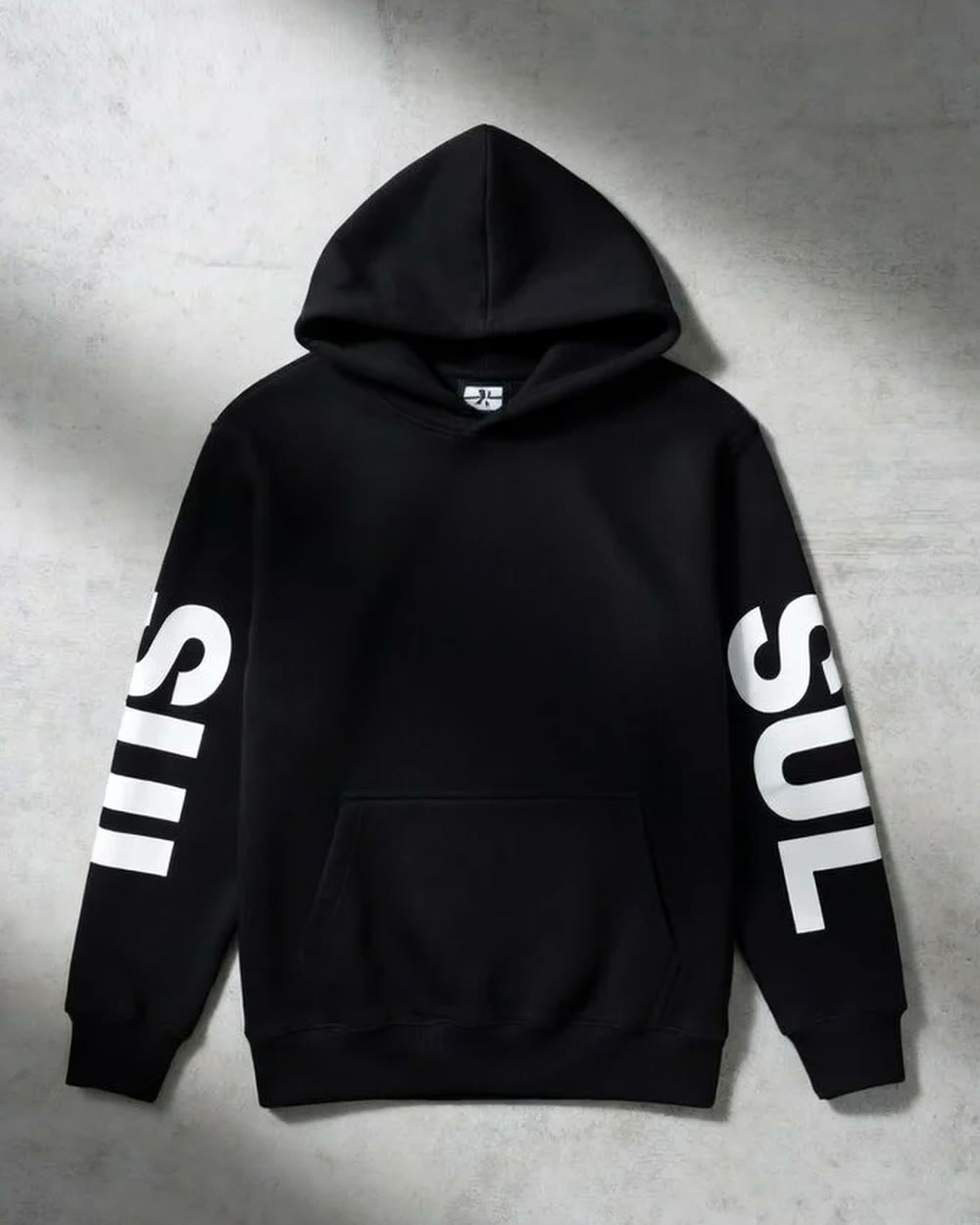
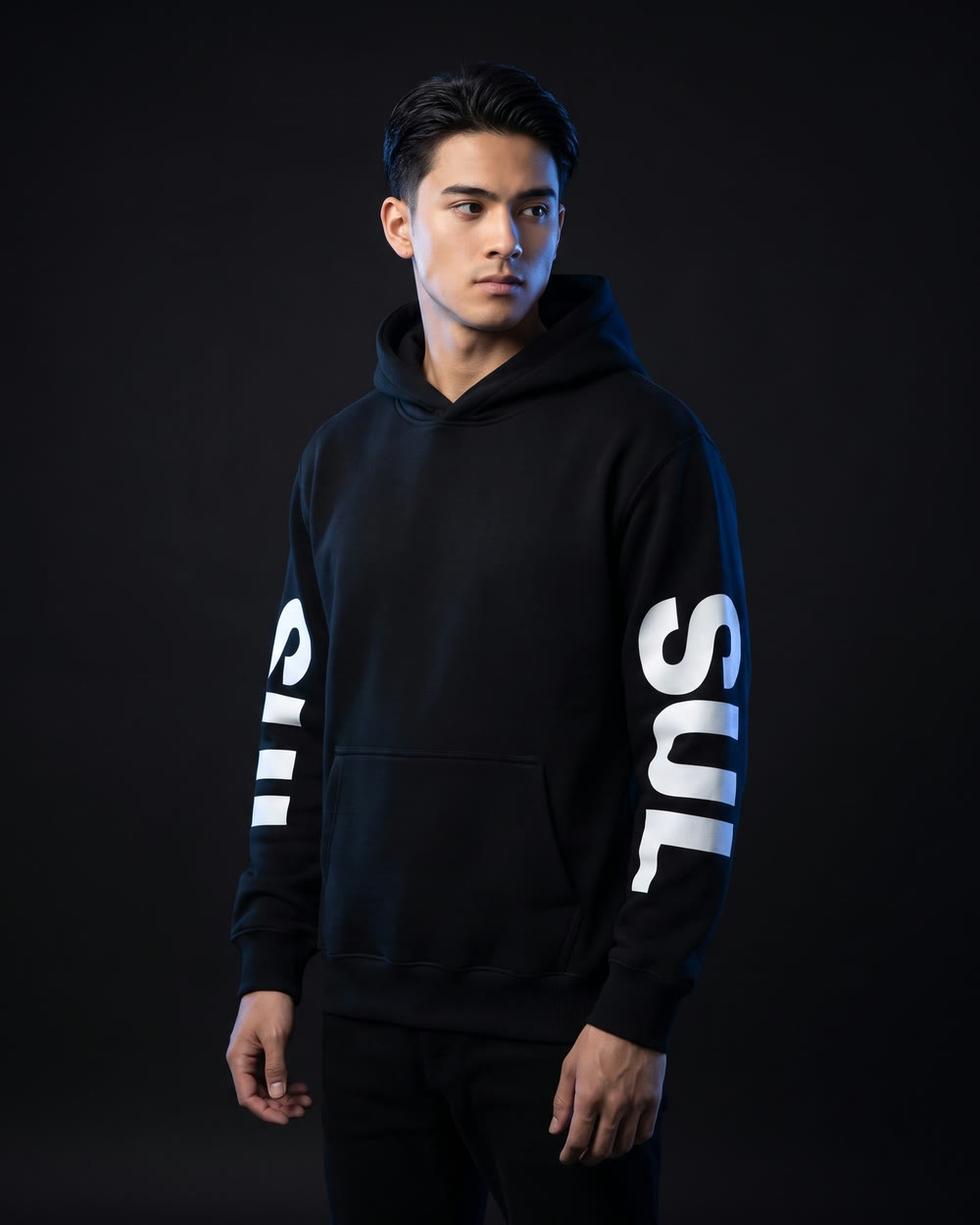
Give the printed sets and older products Higgsfield images
The printed sets now lead with an AI model shot, with the factory table
photos of each shirt and shorts cleaned up on a charcoal surface. The
section says these are AI previews made from the real samples. The
hoodie, sweater, hat, and Full Kit share model shots in link previews.

diff --git a/index.html b/index.html
@@ -59,7 +59,7 @@
   <p class="card-image-note">Hoodie + joggers + tee. Hoodie shown.</p>
 </article></div><p class="shop-empty" hidden>No pieces in this selection. Explore all pieces.</p><div class="collection-bottom"><a class="button" href="collections.html">Shop all pieces<svg viewBox="0 0 24 24" aria-hidden="true"><path d="M4 12h15M13 6l6 6-6 6"/></svg></a></div></section>
 <section id="studio" class="studio-section"><div class="studio-heading shell"><h2>The next<br>wake-up call.</h2><div><p>Chrome. Crown. A new kind of SUL.</p><p class="studio-disclaimer">A look inside the design studio. These designs are previews.</p></div></div><div class="studio-stage"><div class="studio-main"><img src="assets/images/chrome-study.webp" alt="SUL design study showing chrome logos, blue detailing, a bomber, sweater, jersey, and cargo trousers" width="832" height="1248" id="studio-image" loading="lazy"></div><div class="studio-selector"><button aria-pressed="true" data-study="chrome-study" data-study-alt="SUL design study showing chrome logos, blue detailing, a bomber, sweater, jersey, and cargo trousers"><span>Chrome & blue</span><svg viewBox="0 0 24 24" aria-hidden="true"><path d="M4 12h15M13 6l6 6-6 6"/></svg></button><button aria-pressed="false" data-study="essentials-study" data-study-alt="SUL essentials design study with a washed black zip hoodie, cream tee, black varsity jacket, and wide leg trousers"><span>After-hours essentials</span><svg viewBox="0 0 24 24" aria-hidden="true"><path d="M4 12h15M13 6l6 6-6 6"/></svg></button><button aria-pressed="false" data-study="technical-study" data-study-alt="SUL technical clothing design study with black outfits, logo tee, bag, and cap"><span>Technical collection</span><svg viewBox="0 0 24 24" aria-hidden="true"><path d="M4 12h15M13 6l6 6-6 6"/></svg></button></div></div></section>
-<section id="print-edit" class="print-edit shell"><div class="section-heading"><h2>Make some<br>noise.</h2><p>From all-over clocks to bold SUL lettering. Studio previews of the printed sets. Availability and pricing to be announced.</p></div><div class="print-grid"><article class="print-card"><button class="print-image" data-enlarge="snooze-shirt" data-alt="White short sleeve SUL button-up shirt with repeating red and black lettering" aria-label="Enlarge Snooze U Lose shirt"><img src="assets/images/snooze-shirt.webp" alt="White short sleeve SUL button-up shirt with repeating red and black lettering" width="832" height="1248" loading="lazy"><svg viewBox="0 0 24 24" aria-hidden="true"><path d="M4 9V4h5M15 4h5v5M20 15v5h-5M9 20H4v-5"/></svg></button><div class="print-info"><h3>Snooze U Lose</h3><span>White / Red / Black</span></div><div class="print-controls" role="group" aria-label="Snooze U Lose image"><button data-print-image="snooze-shirt" data-print-alt="White short sleeve SUL button-up shirt with repeating red and black lettering" aria-pressed="true">Shirt</button><button data-print-image="snooze-shorts" data-print-alt="Matching Snooze U Lose printed drawstring shorts" aria-pressed="false">Shorts</button></div></article><article class="print-card"><button class="print-image" data-enlarge="time-shirt" data-alt="White short sleeve shirt with clock artwork and Stop Wasting lettering" aria-label="Enlarge Time is money shirt"><img src="assets/images/time-shirt.webp" alt="White short sleeve shirt with clock artwork and Stop Wasting lettering" width="832" height="1248" loading="lazy"><svg viewBox="0 0 24 24" aria-hidden="true"><path d="M4 9V4h5M15 4h5v5M20 15v5h-5M9 20H4v-5"/></svg></button><div class="print-info"><h3>Time is money</h3><span>White / Black / Gold</span></div><div class="print-controls" role="group" aria-label="Time is money image"><button data-print-image="time-shirt" data-print-alt="White short sleeve shirt with clock artwork and Stop Wasting lettering" aria-pressed="true">Shirt</button><button data-print-image="time-shorts" data-print-alt="Matching Time is money printed drawstring shorts" aria-pressed="false">Shorts</button></div></article><article class="print-card"><button class="print-image" data-enlarge="abstract-shirt" data-alt="SUL short sleeve shirt with blue and grey abstract line artwork" aria-label="Enlarge Outside the lines shirt"><img src="assets/images/abstract-shirt.webp" alt="SUL short sleeve shirt with blue and grey abstract line artwork" width="832" height="1248" loading="lazy"><svg viewBox="0 0 24 24" aria-hidden="true"><path d="M4 9V4h5M15 4h5v5M20 15v5h-5M9 20H4v-5"/></svg></button><div class="print-info"><h3>Outside the lines</h3><span>Blue / Grey / White</span></div><div class="print-controls" role="group" aria-label="Outside the lines image"><button data-print-image="abstract-shirt" data-print-alt="SUL short sleeve shirt with blue and grey abstract line artwork" aria-pressed="true">Shirt</button><button data-print-image="abstract-shorts" data-print-alt="Matching Outside the lines printed drawstring shorts" aria-pressed="false">Shorts</button></div></article><article class="print-card"><button class="print-image" data-enlarge="alarm-shirt" data-alt="Charcoal short sleeve shirt with repeating lime digital alarm clock artwork" aria-label="Enlarge Wake-up call shirt"><img src="assets/images/alarm-shirt.webp" alt="Charcoal short sleeve shirt with repeating lime digital alarm clock artwork" width="832" height="1248" loading="lazy"><svg viewBox="0 0 24 24" aria-hidden="true"><path d="M4 9V4h5M15 4h5v5M20 15v5h-5M9 20H4v-5"/></svg></button><div class="print-info"><h3>Wake-up call</h3><span>Charcoal / Lime</span></div><div class="print-controls" role="group" aria-label="Wake-up call image"><button data-print-image="alarm-shirt" data-print-alt="Charcoal short sleeve shirt with repeating lime digital alarm clock artwork" aria-pressed="true">Shirt</button><button data-print-image="alarm-shorts" data-print-alt="Matching Wake-up call printed drawstring shorts" aria-pressed="false">Shorts</button></div></article><article class="print-card"><button class="print-image" data-enlarge="money-shirt" data-alt="Black SUL short sleeve shirt with banknote graphics and lettering" aria-label="Enlarge Make your move shirt"><img src="assets/images/money-shirt.webp" alt="Black SUL short sleeve shirt with banknote graphics and lettering" width="832" height="1248" loading="lazy"><svg viewBox="0 0 24 24" aria-hidden="true"><path d="M4 9V4h5M15 4h5v5M20 15v5h-5M9 20H4v-5"/></svg></button><div class="print-info"><h3>Make your move</h3><span>Black / Multicolor</span></div><div class="print-controls" role="group" aria-label="Make your move image"><button data-print-image="money-shirt" data-print-alt="Black SUL short sleeve shirt with banknote graphics and lettering" aria-pressed="true">Shirt</button><button data-print-image="money-shorts" data-print-alt="Matching Make your move printed drawstring shorts" aria-pressed="false">Shorts</button></div></article></div></section>
+<section id="print-edit" class="print-edit shell"><div class="section-heading"><h2>Make some<br>noise.</h2><p>From all-over clocks to bold SUL lettering. Studio previews of the printed sets, made with AI from photos of the real samples. Availability and pricing to be announced.</p></div><div class="print-grid"><article class="print-card"><button class="print-image" data-enlarge="snooze-look" data-alt="AI preview of a model wearing the Snooze U Lose shirt and shorts. White short sleeve SUL button-up shirt with repeating red and black lettering" aria-label="Enlarge Snooze U Lose look"><img src="assets/images/snooze-look.webp" alt="AI preview of a model wearing the Snooze U Lose shirt and shorts. White short sleeve SUL button-up shirt with repeating red and black lettering" width="832" height="1248" loading="lazy"><svg viewBox="0 0 24 24" aria-hidden="true"><path d="M4 9V4h5M15 4h5v5M20 15v5h-5M9 20H4v-5"/></svg></button><div class="print-info"><h3>Snooze U Lose</h3><span>White / Red / Black</span></div><div class="print-controls" role="group" aria-label="Snooze U Lose image"><button data-print-image="snooze-look" data-print-alt="AI preview of a model wearing the Snooze U Lose shirt and shorts. White short sleeve SUL button-up shirt with repeating red and black lettering" aria-pressed="true">On model</button><button data-print-image="snooze-shirt-studio" data-print-alt="White short sleeve SUL button-up shirt with repeating red and black lettering" aria-pressed="false">Shirt</button><button data-print-image="snooze-shorts-studio" data-print-alt="Matching Snooze U Lose printed drawstring shorts" aria-pressed="false">Shorts</button></div></article><article class="print-card"><button class="print-image" data-enlarge="time-look" data-alt="AI preview of a model wearing the Time is money shirt and shorts. White short sleeve shirt with clock artwork and Stop Wasting lettering" aria-label="Enlarge Time is money look"><img src="assets/images/time-look.webp" alt="AI preview of a model wearing the Time is money shirt and shorts. White short sleeve shirt with clock artwork and Stop Wasting lettering" width="832" height="1248" loading="lazy"><svg viewBox="0 0 24 24" aria-hidden="true"><path d="M4 9V4h5M15 4h5v5M20 15v5h-5M9 20H4v-5"/></svg></button><div class="print-info"><h3>Time is money</h3><span>White / Black / Gold</span></div><div class="print-controls" role="group" aria-label="Time is money image"><button data-print-image="time-look" data-print-alt="AI preview of a model wearing the Time is money shirt and shorts. White short sleeve shirt with clock artwork and Stop Wasting lettering" aria-pressed="true">On model</button><button data-print-image="time-shirt-studio" data-print-alt="White short sleeve shirt with clock artwork and Stop Wasting lettering" aria-pressed="false">Shirt</button><button data-print-image="time-shorts-studio" data-print-alt="Matching Time is money printed drawstring shorts" aria-pressed="false">Shorts</button></div></article><article class="print-card"><button class="print-image" data-enlarge="abstract-look" data-alt="AI preview of a model wearing the Outside the lines shirt and shorts. SUL short sleeve shirt with blue and grey abstract line artwork" aria-label="Enlarge Outside the lines look"><img src="assets/images/abstract-look.webp" alt="AI preview of a model wearing the Outside the lines shirt and shorts. SUL short sleeve shirt with blue and grey abstract line artwork" width="832" height="1248" loading="lazy"><svg viewBox="0 0 24 24" aria-hidden="true"><path d="M4 9V4h5M15 4h5v5M20 15v5h-5M9 20H4v-5"/></svg></button><div class="print-info"><h3>Outside the lines</h3><span>Blue / Grey / White</span></div><div class="print-controls" role="group" aria-label="Outside the lines image"><button data-print-image="abstract-look" data-print-alt="AI preview of a model wearing the Outside the lines shirt and shorts. SUL short sleeve shirt with blue and grey abstract line artwork" aria-pressed="true">On model</button><button data-print-image="abstract-shirt-studio" data-print-alt="SUL short sleeve shirt with blue and grey abstract line artwork" aria-pressed="false">Shirt</button><button data-print-image="abstract-shorts-studio" data-print-alt="Matching Outside the lines printed drawstring shorts" aria-pressed="false">Shorts</button></div></article><article class="print-card"><button class="print-image" data-enlarge="alarm-look" data-alt="AI preview of a model wearing the Wake-up call shirt and shorts. Charcoal short sleeve shirt with repeating lime digital alarm clock artwork" aria-label="Enlarge Wake-up call look"><img src="assets/images/alarm-look.webp" alt="AI preview of a model wearing the Wake-up call shirt and shorts. Charcoal short sleeve shirt with repeating lime digital alarm clock artwork" width="832" height="1248" loading="lazy"><svg viewBox="0 0 24 24" aria-hidden="true"><path d="M4 9V4h5M15 4h5v5M20 15v5h-5M9 20H4v-5"/></svg></button><div class="print-info"><h3>Wake-up call</h3><span>Charcoal / Lime</span></div><div class="print-controls" role="group" aria-label="Wake-up call image"><button data-print-image="alarm-look" data-print-alt="AI preview of a model wearing the Wake-up call shirt and shorts. Charcoal short sleeve shirt with repeating lime digital alarm clock artwork" aria-pressed="true">On model</button><button data-print-image="alarm-shirt-studio" data-print-alt="Charcoal short sleeve shirt with repeating lime digital alarm clock artwork" aria-pressed="false">Shirt</button><button data-print-image="alarm-shorts-studio" data-print-alt="Matching Wake-up call printed drawstring shorts" aria-pressed="false">Shorts</button></div></article><article class="print-card"><button class="print-image" data-enlarge="money-look" data-alt="AI preview of a model wearing the Make your move shirt and shorts. Black SUL short sleeve shirt with banknote graphics and lettering" aria-label="Enlarge Make your move look"><img src="assets/images/money-look.webp" alt="AI preview of a model wearing the Make your move shirt and shorts. Black SUL short sleeve shirt with banknote graphics and lettering" width="832" height="1248" loading="lazy"><svg viewBox="0 0 24 24" aria-hidden="true"><path d="M4 9V4h5M15 4h5v5M20 15v5h-5M9 20H4v-5"/></svg></button><div class="print-info"><h3>Make your move</h3><span>Black / Multicolor</span></div><div class="print-controls" role="group" aria-label="Make your move image"><button data-print-image="money-look" data-print-alt="AI preview of a model wearing the Make your move shirt and shorts. Black SUL short sleeve shirt with banknote graphics and lettering" aria-pressed="true">On model</button><button data-print-image="money-shirt-studio" data-print-alt="Black SUL short sleeve shirt with banknote graphics and lettering" aria-pressed="false">Shirt</button><button data-print-image="money-shorts-studio" data-print-alt="Matching Make your move printed drawstring shorts" aria-pressed="false">Shorts</button></div></article></div></section>
 <section class="campaign" id="lookbook"><div class="campaign-image"><img src="assets/images/city.webp" alt="SUL white and maroon sweatsuit worn on a city street" width="832" height="1248" id="campaign-image" loading="lazy"><span class="campaign-caption" id="campaign-caption">SUL in the city.</span></div><div class="campaign-copy"><div class="campaign-tabs" role="group" aria-label="Lookbook setting"><button data-campaign="city" aria-pressed="true">In the city</button><button data-campaign="outdoor" aria-pressed="false">Off the clock</button></div><h2>Different<br>hours.<br>Same energy.</h2><p>Out in the city. Off the clock. Wherever the day takes you, bring your own point of view.</p><a class="campaign-link" href="collections.html">Find your everyday uniform<svg viewBox="0 0 24 24" aria-hidden="true"><path d="M4 12h15M13 6l6 6-6 6"/></svg></a></div></section>
 <section class="manifesto shell" id="story"><h2>More than<br>a name.<br>A mindset.</h2><div class="manifesto-copy"><p><strong>Snooze U Lose.</strong> A reminder to go after what matters. To show up as yourself. To make your next move count.</p><p>From the lion to the crown, that’s the thread running through SUL. The rest is how you wear it.</p><a class="text-link" href="https://www.instagram.com/snoozeulose/" target="_blank" rel="noopener noreferrer">Follow SUL on Instagram<svg viewBox="0 0 24 24" aria-hidden="true"><path d="M5 19 19 5M5 5h14v14"/></svg></a></div></section>
 </main><footer class="site-footer shell"><div class="footer-top"><h2>Don’t sleep<br>on what’s next.</h2><nav class="footer-nav" aria-label="Footer navigation"><a href="index.html#drop">Women’s drop</a><a href="collections.html">Shop the collection</a><a href="index.html#studio">The studio</a><a href="https://www.instagram.com/snoozeulose/" target="_blank" rel="noopener noreferrer">Instagram<svg viewBox="0 0 24 24" aria-hidden="true"><path d="M5 19 19 5M5 5h14v14"/></svg></a><a href="https://www.tiktok.com/@snoozeulose" target="_blank" rel="noopener noreferrer">TikTok<svg viewBox="0 0 24 24" aria-hidden="true"><path d="M5 19 19 5M5 5h14v14"/></svg></a></nav></div><div class="footer-wordmark"><div class="footer-logo" role="img" aria-label="SUL"></div><p class="footer-credo">Snooze.<br>You lose.</p></div><div class="footer-bottom"><p>© 2026 SUL — Snooze U Lose.</p><p>Questions or orders: <a href="mailto:sulcollective@gmail.com">sulcollective@gmail.com</a></p></div></footer><dialog id="bag-dialog" class="bag-dialog" aria-labelledby="bag-title"><div class="dialog-head"><h2 id="bag-title">Your bag <span id="bag-heading-count">(0)</span></h2><button class="dialog-close" data-close aria-label="Close bag"><svg viewBox="0 0 24 24" aria-hidden="true"><path d="m6 6 12 12M18 6 6 18"/></svg></button></div><div class="bag-items" id="bag-items"></div><div class="bag-foot"><div class="bag-subtotal"><span>Subtotal</span><strong id="bag-total">$0</strong></div><button class="button blue" id="preview-checkout" disabled>Checkout<svg viewBox="0 0 24 24" aria-hidden="true"><path d="M4 12h15M13 6l6 6-6 6"/></svg></button><div class="preview-links" id="preview-links" hidden></div><p id="bag-note">Your bag is saved on this device.</p></div></dialog>

diff --git a/full-kit.html b/full-kit.html
@@ -1,5 +1,5 @@
 <!doctype html>
-<html lang="en"><head><meta charset="UTF-8"><meta name="viewport" content="width=device-width, initial-scale=1"><title>The Full Kit | SUL — Snooze U Lose</title><meta name="description" content="One look, three pieces. The Blackout Hoodie, matching joggers, and essential SUL tee together in black. Your everyday rotation, sorted."><meta name="theme-color" content="#05070d"><meta name="color-scheme" content="dark"><link rel="canonical" href="https://snoozeulose.com/full-kit.html"><meta property="og:site_name" content="Snooze U Lose"><meta property="og:locale" content="en_US"><meta property="og:type" content="product"><meta property="og:url" content="https://snoozeulose.com/full-kit.html"><meta property="og:title" content="The Full Kit · $160"><meta property="og:description" content="One look, three pieces. The Blackout Hoodie, matching joggers, and essential SUL tee together in black. Your everyday rotation, sorted."><meta property="og:image" content="https://snoozeulose.com/assets/share/full-kit.jpg"><meta property="og:image:secure_url" content="https://snoozeulose.com/assets/share/full-kit.jpg"><meta property="og:image:type" content="image/jpeg"><meta property="og:image:width" content="1000"><meta property="og:image:height" content="1250"><meta property="og:image:alt" content="Blackout Hoodie styled with a cap on a store mannequin; hoodie is part of the Full Kit"><meta property="product:price:amount" content="160"><meta property="product:price:currency" content="USD"><meta name="twitter:card" content="summary_large_image"><meta name="twitter:title" content="The Full Kit · $160"><meta name="twitter:description" content="One look, three pieces. The Blackout Hoodie, matching joggers, and essential SUL tee together in black. Your everyday rotation, sorted."><meta name="twitter:image" content="https://snoozeulose.com/assets/share/full-kit.jpg"><meta name="twitter:image:alt" content="Blackout Hoodie styled with a cap on a store mannequin; hoodie is part of the Full Kit"><link rel="icon" href="favicon.ico" sizes="48x48"><link rel="icon" href="assets/images/favicon-64.png" sizes="64x64" type="image/png"><link rel="icon" href="assets/images/icon-192.png" sizes="192x192" type="image/png"><link rel="apple-touch-icon" href="apple-touch-icon.png" sizes="180x180"><link rel="manifest" href="site.webmanifest"><meta name="apple-mobile-web-app-title" content="SUL"><link rel="preload" href="assets/fonts/barlow-condensed-800.woff2" as="font" type="font/woff2" crossorigin><link rel="preload" href="assets/fonts/manrope-400.woff2" as="font" type="font/woff2" crossorigin><link rel="stylesheet" href="assets/style.css"><script type="application/ld+json">{"@context":"https://schema.org","@type":"Product","name":"The Full Kit","image":"https://snoozeulose.com/assets/images/hoodie-scene.webp","description":"One look, three pieces. The Blackout Hoodie, matching joggers, and essential SUL tee together in black. Your everyday rotation, sorted.","brand":{"@type":"Brand","name":"SUL — Snooze U Lose"}}</script><script type="module" src="assets/site.js"></script><script type="module" src="assets/motion.js"></script></head><body class=""><a class="skip-link" href="#main">Skip to content</a>
+<html lang="en"><head><meta charset="UTF-8"><meta name="viewport" content="width=device-width, initial-scale=1"><title>The Full Kit | SUL — Snooze U Lose</title><meta name="description" content="One look, three pieces. The Blackout Hoodie, matching joggers, and essential SUL tee together in black. Your everyday rotation, sorted."><meta name="theme-color" content="#05070d"><meta name="color-scheme" content="dark"><link rel="canonical" href="https://snoozeulose.com/full-kit.html"><meta property="og:site_name" content="Snooze U Lose"><meta property="og:locale" content="en_US"><meta property="og:type" content="product"><meta property="og:url" content="https://snoozeulose.com/full-kit.html"><meta property="og:title" content="The Full Kit · $160"><meta property="og:description" content="One look, three pieces. The Blackout Hoodie, matching joggers, and essential SUL tee together in black. Your everyday rotation, sorted."><meta property="og:image" content="https://snoozeulose.com/assets/share/full-kit.jpg"><meta property="og:image:secure_url" content="https://snoozeulose.com/assets/share/full-kit.jpg"><meta property="og:image:type" content="image/jpeg"><meta property="og:image:width" content="1000"><meta property="og:image:height" content="1250"><meta property="og:image:alt" content="Model wearing the Blackout Hoodie with white SUL sleeve lettering and matching black joggers"><meta property="product:price:amount" content="160"><meta property="product:price:currency" content="USD"><meta name="twitter:card" content="summary_large_image"><meta name="twitter:title" content="The Full Kit · $160"><meta name="twitter:description" content="One look, three pieces. The Blackout Hoodie, matching joggers, and essential SUL tee together in black. Your everyday rotation, sorted."><meta name="twitter:image" content="https://snoozeulose.com/assets/share/full-kit.jpg"><meta name="twitter:image:alt" content="Model wearing the Blackout Hoodie with white SUL sleeve lettering and matching black joggers"><link rel="icon" href="favicon.ico" sizes="48x48"><link rel="icon" href="assets/images/favicon-64.png" sizes="64x64" type="image/png"><link rel="icon" href="assets/images/icon-192.png" sizes="192x192" type="image/png"><link rel="apple-touch-icon" href="apple-touch-icon.png" sizes="180x180"><link rel="manifest" href="site.webmanifest"><meta name="apple-mobile-web-app-title" content="SUL"><link rel="preload" href="assets/fonts/barlow-condensed-800.woff2" as="font" type="font/woff2" crossorigin><link rel="preload" href="assets/fonts/manrope-400.woff2" as="font" type="font/woff2" crossorigin><link rel="stylesheet" href="assets/style.css"><script type="application/ld+json">{"@context":"https://schema.org","@type":"Product","name":"The Full Kit","image":"https://snoozeulose.com/assets/images/hoodie-scene.webp","description":"One look, three pieces. The Blackout Hoodie, matching joggers, and essential SUL tee together in black. Your everyday rotation, sorted.","brand":{"@type":"Brand","name":"SUL — Snooze U Lose"}}</script><script type="module" src="assets/site.js"></script><script type="module" src="assets/motion.js"></script></head><body class=""><a class="skip-link" href="#main">Skip to content</a>
 <header class="site-header"><a class="brand" href="index.html" aria-label="SUL home"><span class="logo-mark" aria-hidden="true"></span><span class="brand-name">Snooze<br>U Lose</span></a><nav class="desktop-nav" aria-label="Main navigation"><a href="index.html#drop">Women’s drop</a><a href="collections.html">Shop all</a><a href="index.html#studio">The studio</a><a href="index.html#story">Our world</a></nav><div class="header-actions"><button class="bag-trigger" data-open="bag-dialog" aria-label="Open shopping bag"><svg viewBox="0 0 24 24" aria-hidden="true"><path d="M6 7h12l2 13H4L6 7ZM9 8V6a3 3 0 0 1 6 0v2"/></svg><span>Bag</span><span class="bag-count">(0)</span></button><button class="menu-trigger" data-open="menu-dialog" aria-label="Open navigation">Menu<svg viewBox="0 0 24 24" aria-hidden="true"><path d="M3 8h18M3 16h18"/></svg></button></div></header><main id="main" class="product-main"><nav class="breadcrumb" aria-label="Breadcrumb"><a href="index.html">Home</a><svg viewBox="0 0 24 24" aria-hidden="true"><path d="m9 6 6 6-6 6"/></svg><a href="collections.html">The collection</a><svg viewBox="0 0 24 24" aria-hidden="true"><path d="m9 6 6 6-6 6"/></svg><span aria-current="page">The Full Kit</span></nav><div class="product-layout shell"><section class="product-gallery" aria-label="The Full Kit gallery"><div class="gallery-main" style="view-transition-name:p-full-kit"><img src="assets/images/hoodie-scene.webp" alt="Blackout Hoodie styled with a cap on a store mannequin; hoodie is part of the Full Kit" width="832" height="1248" id="gallery-image" fetchpriority="high"><button class="gallery-enlarge" data-enlarge="hoodie-scene" data-alt="Blackout Hoodie styled with a cap on a store mannequin; hoodie is part of the Full Kit" aria-label="Enlarge product image"><svg viewBox="0 0 24 24" aria-hidden="true"><path d="M4 9V4h5M15 4h5v5M20 15v5h-5M9 20H4v-5"/></svg></button></div><div class="gallery-thumbs" role="group" aria-label="Choose product image"><button data-gallery="hoodie-scene" data-gallery-alt="Blackout Hoodie styled with a cap on a store mannequin; hoodie is part of the Full Kit" aria-pressed="true" aria-label="Studio view"><img src="assets/images/hoodie-scene.webp" alt="Blackout Hoodie styled with a cap on a store mannequin; hoodie is part of the Full Kit" width="832" height="1248" loading="lazy"></button><button data-gallery="hoodie" data-gallery-alt="Blackout Hoodie, included in the SUL Full Kit" aria-pressed="false" aria-label="Alternate view"><img src="assets/images/hoodie.webp" alt="Blackout Hoodie, included in the SUL Full Kit" width="832" height="1248" loading="lazy"></button></div><p class="image-note">Blackout Hoodie shown. The kit also includes joggers and a tee.</p></section><section class="product-summary" data-detail="full-kit" aria-labelledby="product-title"><h1 id="product-title">The Full Kit</h1><div class="product-price-row"><strong>$160</strong><span class="color-name"><span class="color-swatch" aria-hidden="true"></span>Black / White</span></div><p class="product-description">One look, three pieces. The Blackout Hoodie, matching joggers, and essential SUL tee together in black. Your everyday rotation, sorted.</p><fieldset class="size-fieldset"><legend class="sr-only">Select your size</legend><div class="size-head"><span>Select your size</span><button type="button" class="size-guide-link" data-size-guide="full-kit" aria-haspopup="dialog">Size guide</button></div><div class="size-options" role="group" aria-label="Size for The Full Kit"><button type="button" data-size="S" aria-pressed="false">S</button><button type="button" data-size="M" aria-pressed="false">M</button><button type="button" data-size="L" aria-pressed="false">L</button><button type="button" data-size="XL" aria-pressed="false">XL</button><button type="button" data-size="2XL" aria-pressed="false">2XL</button></div><p class="inline-error" role="status" id="size-error"></p></fieldset><button class="button blue product-add" data-add="full-kit"><span>Add to bag — $160</span><svg viewBox="0 0 24 24" aria-hidden="true"><path d="M12 5v14M5 12h14"/></svg></button><p class="product-preview-note">Saved to your bag on this device.<br>Checkout sends your order to SUL by email. SUL confirms payment and shipping.</p><dl class="product-details"><div><dt>Includes</dt><dd>Blackout Hoodie + Joggers + Tee</dd></div><div><dt>Material</dt><dd>Heavyweight cotton fleece</dd></div><div><dt>Fit</dt><dd>Oversized / Relaxed</dd></div><div><dt>Color</dt><dd>Black / White print</dd></div></dl></section></div><section class="related shell"><div class="section-heading"><h2>Keep the energy.</h2><a class="text-link" href="collections.html">See all<svg viewBox="0 0 24 24" aria-hidden="true"><path d="M4 12h15M13 6l6 6-6 6"/></svg></a></div><div class="product-grid"><article class="product-card" data-product="blackout-hoodie" data-category="Tops" data-price="85">
   <div class="product-image-link" style="view-transition-name:p-blackout-hoodie"><a href="blackout-hoodie.html" aria-label="View Blackout Hoodie"><img src="assets/images/hoodie.webp" alt="Black SUL hoodie with white lettering on both sleeves" width="832" height="1248" loading="lazy" class="card-main-image"><img src="assets/images/hoodie-scene.webp" alt="Blackout Hoodie and SUL cap styled on a store mannequin" width="832" height="1248" loading="lazy" class="hover-image"></a>
 

diff --git a/assets/style.css b/assets/style.css
@@ -219,14 +219,14 @@ main h1,main h2,.footer-top h2{color:var(--chalk)}
 .print-grid{display:grid;grid-auto-flow:column;grid-auto-columns:minmax(245px,25%);gap:clamp(12px,1.4vw,20px);overflow-x:auto;scroll-snap-type:x mandatory;scrollbar-width:thin;scrollbar-color:var(--blue) transparent;padding:6px 2px 22px}
 .print-card{min-width:0;scroll-snap-align:start}
 .print-image{padding:0;width:100%;aspect-ratio:4/5;display:block}
-.print-image img{width:100%;height:100%;object-fit:cover;object-position:center 40%;transform:scale(1.1);transform-origin:center 38%;transition:transform .9s var(--ease),opacity .3s var(--ease)}
-.print-image:hover img{transform:scale(1.14)}
+.print-image img{width:100%;height:100%;object-fit:cover;object-position:center 30%;transform-origin:center 38%;transition:transform .9s var(--ease),opacity .3s var(--ease)}
+.print-image:hover img{transform:scale(1.04)}
 .print-image>svg{position:absolute;right:10px;bottom:10px;background:#f2f4f9e6;color:#0a1330;padding:11px;width:44px;height:44px;border-radius:50%}
 .print-info{padding-top:13px}
 .print-info h3{font-size:15px}
 .print-info>span{font-size:14px;color:var(--muted);display:block;margin-top:3px}
 .print-controls{display:flex;gap:6px;margin-top:8px}
-.print-controls button{font-size:14px;font-weight:600;min-height:44px;min-width:44px;padding:0 14px;color:var(--silver);border-radius:var(--pill);box-shadow:inset 0 0 0 1px var(--line)}
+.print-controls button{font-size:14px;font-weight:600;min-height:44px;min-width:44px;padding:0 12px;white-space:nowrap;color:var(--silver);border-radius:var(--pill);box-shadow:inset 0 0 0 1px var(--line)}
 .print-controls button[aria-pressed=true]{background:var(--chalk);color:var(--void);box-shadow:none}
 
 /* ---------- campaign + manifesto ---------- */
@@ -564,5 +564,4 @@ dialog[open]{animation:dialog-in .5s var(--ease)}
   html:not(.lenis){scroll-behavior:auto}
   *,*::before,*::after{animation:none!important;transition:none!important}
   .product-image-link:hover img,.print-image:hover img{transform:none}
-  .print-image img{transform:scale(1.1)}
 }

diff --git a/assets/catalog.js b/assets/catalog.js
@@ -51,6 +51,7 @@ export const products = [
     id: 'full-kit', name: 'The Full Kit', price: 160, category: 'Sets',
     color: 'Black / White', image: 'hoodie-scene', scene: 'hoodie',
     alt: 'Blackout Hoodie styled with a cap on a store mannequin; hoodie is part of the Full Kit',
+    shareAlt: 'Model wearing the Blackout Hoodie with white SUL sleeve lettering and matching black joggers',
     sceneAlt: 'Blackout Hoodie, included in the SUL Full Kit',
     gallery: ['hoodie-scene', 'hoodie'], sizes: ['S', 'M', 'L', 'XL', '2XL'],
     fit: 'Relaxed, oversized fit', fitNote: 'The hoodie, joggers, and tee are cut for a relaxed, oversized fit. Choose your usual size for the look as shown.',

diff --git a/CLAUDE.md b/CLAUDE.md
@@ -44,7 +44,7 @@ The owner rejected the flat, square look and asked for 3D that is “wow like no
 
 ## Link Previews — 2026-11-05
 
-What a shared link shows follows Apple’s TN3156: short titles without the site name (`og:site_name` carries it), no printed words in preview images, images at least 900px wide, and a square icon. `shareTags` in `scripts/build.mjs` writes the tags. Each product shares a 1000x1250 photo in `assets/share/`, titled name and price from the catalog; the homepage shares `sul-film.mp4` (the real 3D logo flight landing on all four sets, which Messages plays by itself) with `womens-drop.jpg` as its still. Icons are `favicon.ico` and `apple-touch-icon.png` at the root, plus `assets/images/icon-*.png` and `site.webmanifest`. The set and lineup previews are Higgsfield `nano_banana_2` edits of campaign crops (sources in `site-photos/share-generated/`), which changed the background and lighting and kept the real prints. `product-photoshoot` was rejected for these because it redrew the crown and lettering, so compare prints before replacing one. The storefront pages still use the campaign crops. `scripts/share/build_share_assets.cjs` makes all the preview files, so rerun it when those photos change, and add a crop to `PHOTOS` for any new product. Messages caches a preview per link on each device, so test changes with a link that has not been sent before, for example by adding `?v=2`.
+What a shared link shows follows Apple’s TN3156: short titles without the site name (`og:site_name` carries it), no printed words in preview images, images at least 900px wide, and a square icon. `shareTags` in `scripts/build.mjs` writes the tags. Each product shares a 1000x1250 photo in `assets/share/`, titled name and price from the catalog; the homepage shares `sul-film.mp4` (the real 3D logo flight landing on all four sets, which Messages plays by itself) with `womens-drop.jpg` as its still. Icons are `favicon.ico` and `apple-touch-icon.png` at the root, plus `assets/images/icon-*.png` and `site.webmanifest`. All product previews are Higgsfield `nano_banana_2` images (sources in `site-photos/share-generated/`): the women’s sets and lineup are edits of campaign crops that changed the background and lighting, and the older products are AI models wearing the pictured garment. `product-photoshoot` was rejected for these because it redrew the crown and lettering, so compare prints before replacing one. The product and set pages still use their earlier photos. The printed sets on the homepage now lead with an AI model shot (`*-look.webp`) and use AI cleaned photos of the samples (`*-shirt-studio.webp`, `*-shorts-studio.webp`), and the section says so; the factory table originals stay in `assets/images/`. `scripts/share/build_share_assets.cjs` makes all the preview files, so rerun it when those photos change, and add a crop to `PHOTOS` for any new product. Messages caches a preview per link on each device, so test changes with a link that has not been sent before, for example by adding `?v=2`.
 
 ## Brand Overview
 - **Brand Name:** SUL (Snooze U Lose)
